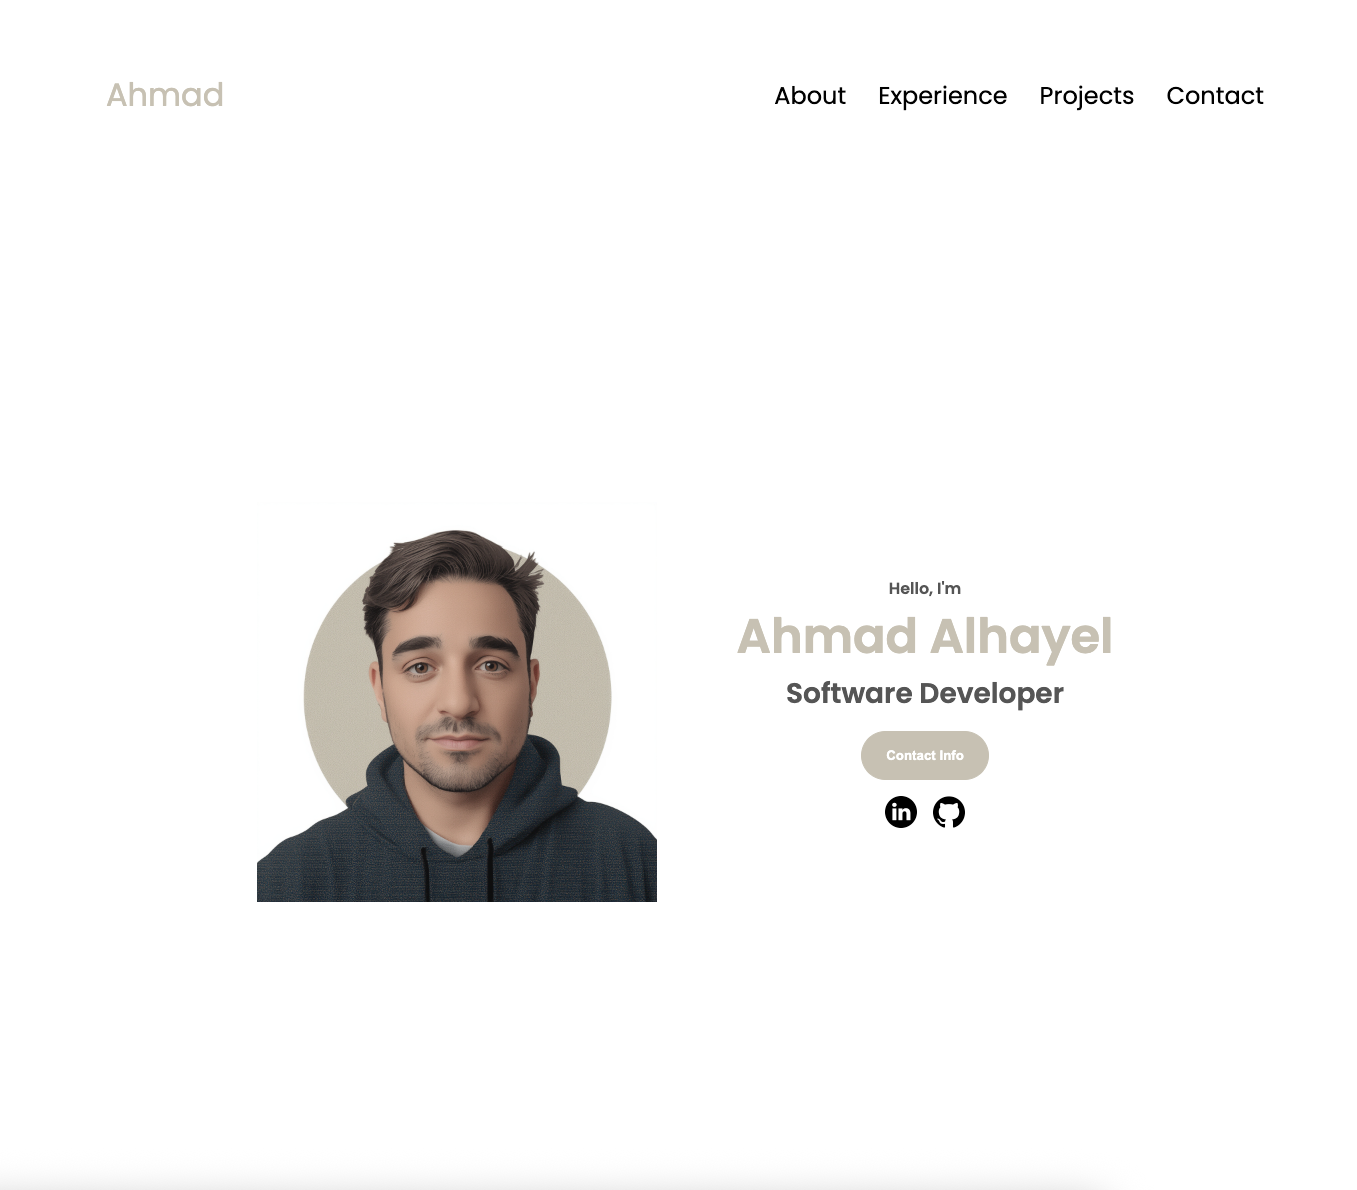
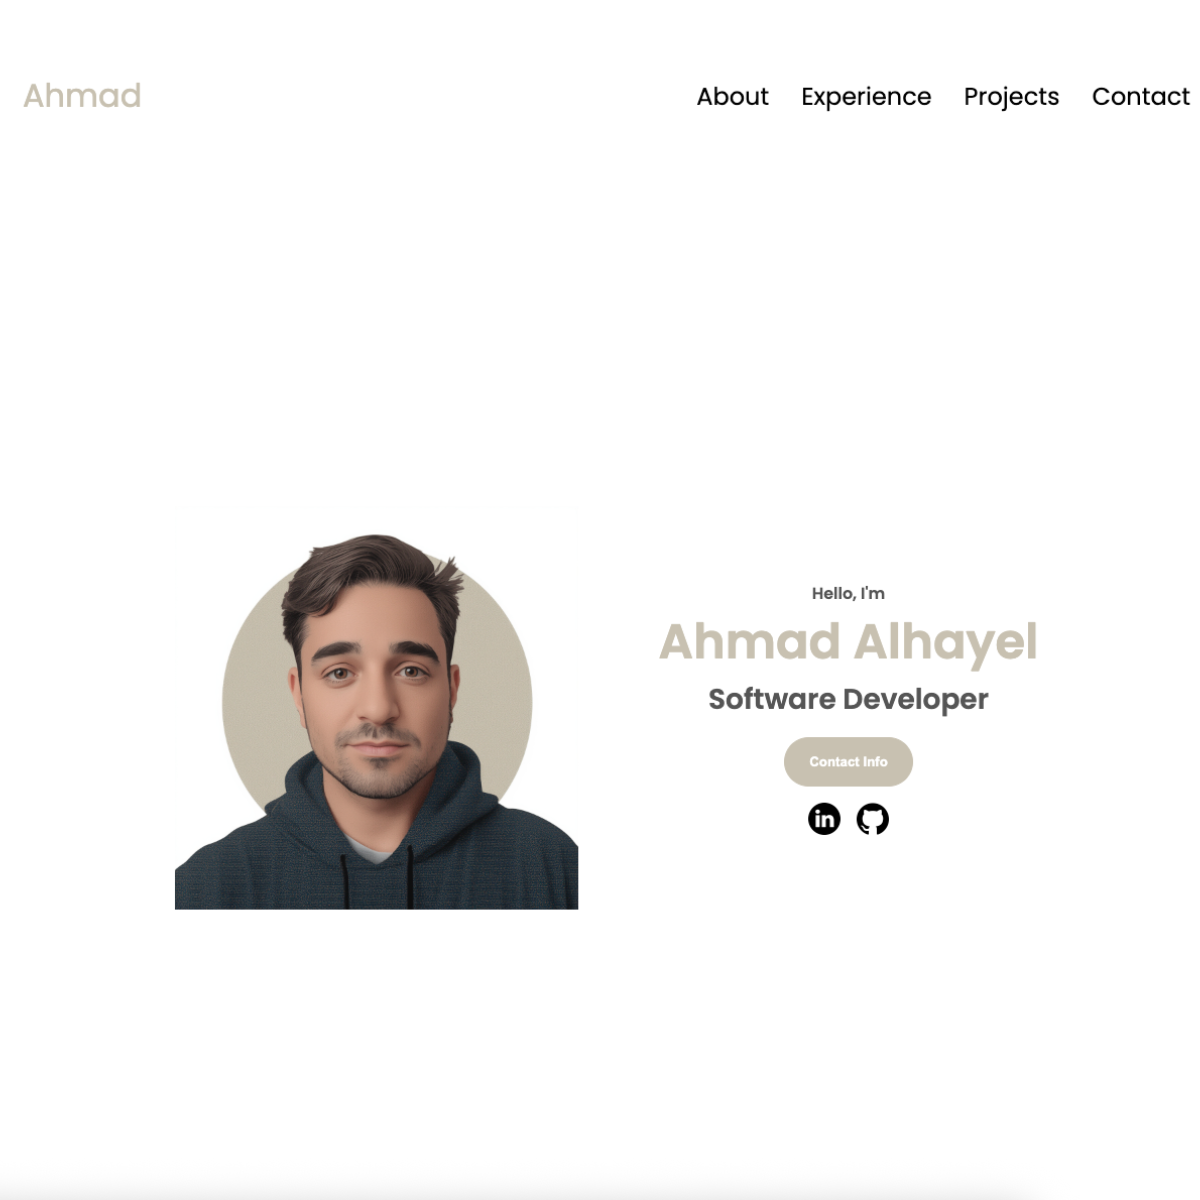
new projects to portfolio

diff --git a/index.html b/index.html
@@ -303,17 +303,18 @@
                 class="project-img"
               />
             </div>
-            <h2 class="experience-sub-title project-title">Project One</h2>
-            <div class="btn-container">
+            <h2 class="experience-sub-title project-title">Portrfolio</h2>
+            <div>
               <button
                 class="btn btn-color-2 project-btn"
-                onclick="location.href='https://github.com/'"
+                onclick="window.open('https://github.com/ahmadhayel/portfolio', '_blank')"
               >
                 Github
               </button>
+
               <button
                 class="btn btn-color-2 project-btn"
-                onclick="location.href='https://github.com/'"
+                onclick="window.open('https://ahmad-alhayel-portfolio.netlify.app/', '_blank')"
               >
                 Live Demo
               </button>
@@ -327,17 +328,19 @@
                 class="project-img"
               />
             </div>
-            <h2 class="experience-sub-title project-title">Project Two</h2>
+            <h2 class="experience-sub-title project-title">
+              MailboxManagerApplication
+            </h2>
             <div class="btn-container">
               <button
                 class="btn btn-color-2 project-btn"
-                onclick="location.href='https://github.com/'"
+                onclick="window.open('https://github.com/ahmadhayel/MailboxManagerApplication.git', '_blank')"
               >
                 Github
               </button>
               <button
                 class="btn btn-color-2 project-btn"
-                onclick="location.href='https://github.com/'"
+                onclick="location.href='https://github.com/ahmadhayel/MailboxManagerApplication-Frontend.git'"
               >
                 Live Demo
               </button>
@@ -351,17 +354,19 @@
                 class="project-img"
               />
             </div>
-            <h2 class="experience-sub-title project-title">Project Three</h2>
+            <h2 class="experience-sub-title project-title">
+              Cotton Candy Website
+            </h2>
             <div class="btn-container">
               <button
                 class="btn btn-color-2 project-btn"
-                onclick="location.href='https://github.com/'"
+                onclick="window.open('https://github.com/ahmadhayel/CottonCandy.git', '_blank')"
               >
                 Github
               </button>
               <button
                 class="btn btn-color-2 project-btn"
-                onclick="location.href='https://github.com/'"
+                onclick="window.open('https://stellular-rugelach-382905.netlify.app/', '_blank')"
               >
                 Live Demo
               </button>
